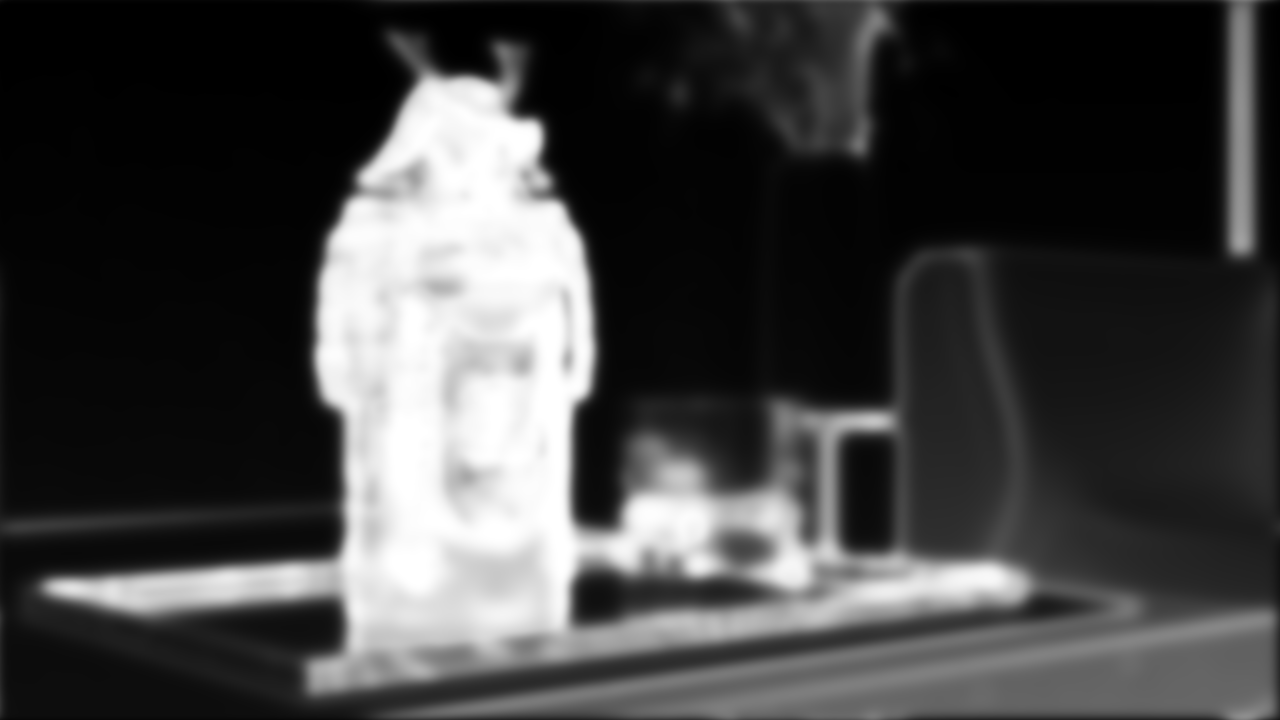
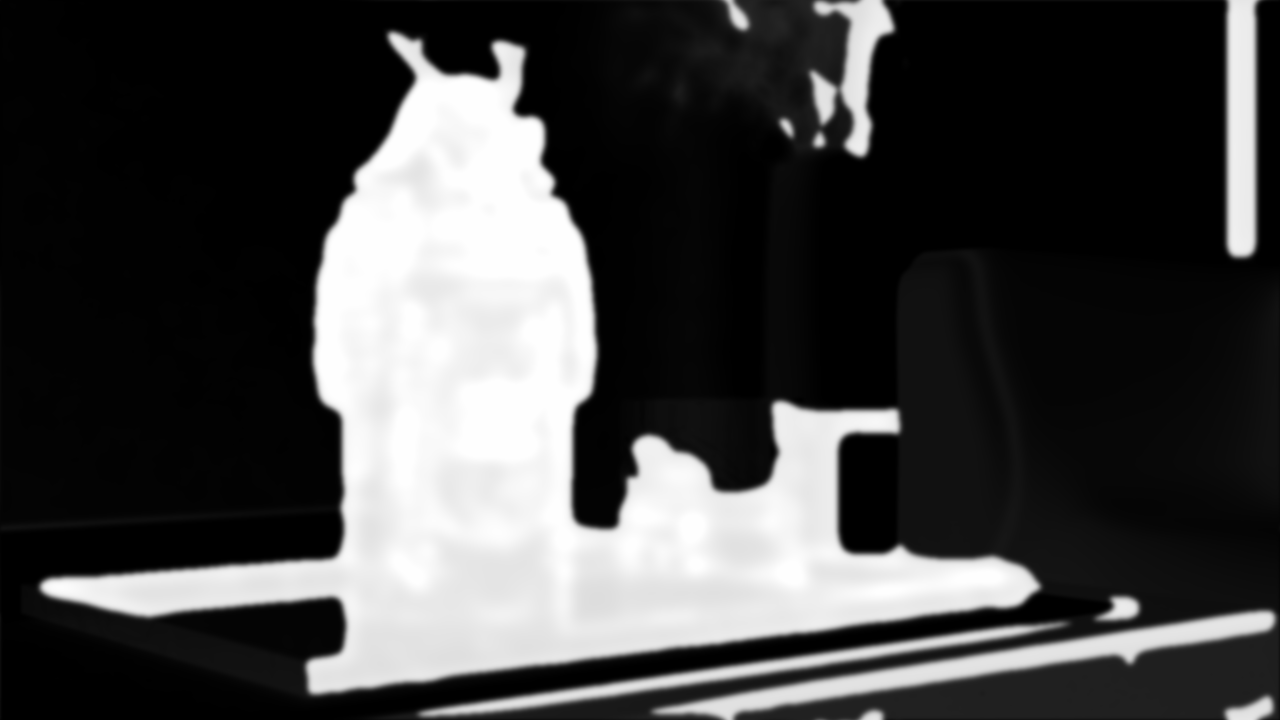
Focus-pull: filled subject-mask depth (whole bottle on one near plane)
Depth rebuilt as a filled subject mask (in-focus + saturation cues,
numpy border-flood hole fill) so the entire subject is one near slab
with a clean edge to the far background - fixes the foreground tearing
where smooth/dark parts of the bottle sat at mid depth. Focus plane
moved to 0.88 to land on the slab.

diff --git a/Full Website/index_v2.html b/Full Website/index_v2.html
@@ -200,7 +200,7 @@
     <p class="lede" data-i18n="portfolio.body">Drag to rotate. Open on your phone to place any of these in your space at true size.</p>
     <div class="cards">
       <div class="card featured">
-        <div class="fwrap"><canvas class="fcard" data-img="shinobu.png" data-depth="shinobu_depth.png" data-focus="0.8" aria-label="Shinobu whisky bottle"></canvas></div>
+        <div class="fwrap"><canvas class="fcard" data-img="shinobu.png" data-depth="shinobu_depth.png" data-focus="0.88" aria-label="Shinobu whisky bottle"></canvas></div>
         <h3>Shinobu — whisky bottle</h3>
         <p>Photogrammetry · glass + label rebuild</p>
         <a class="arb" href="#" data-i18n="portfolio.ar">View in your space</a>

diff --git a/index_v2.html b/index_v2.html
@@ -200,7 +200,7 @@
     <p class="lede" data-i18n="portfolio.body">Drag to rotate. Open on your phone to place any of these in your space at true size.</p>
     <div class="cards">
       <div class="card featured">
-        <div class="fwrap"><canvas class="fcard" data-img="shinobu.png" data-depth="shinobu_depth.png" data-focus="0.8" aria-label="Shinobu whisky bottle"></canvas></div>
+        <div class="fwrap"><canvas class="fcard" data-img="shinobu.png" data-depth="shinobu_depth.png" data-focus="0.88" aria-label="Shinobu whisky bottle"></canvas></div>
         <h3>Shinobu — whisky bottle</h3>
         <p>Photogrammetry · glass + label rebuild</p>
         <a class="arb" href="#" data-i18n="portfolio.ar">View in your space</a>
